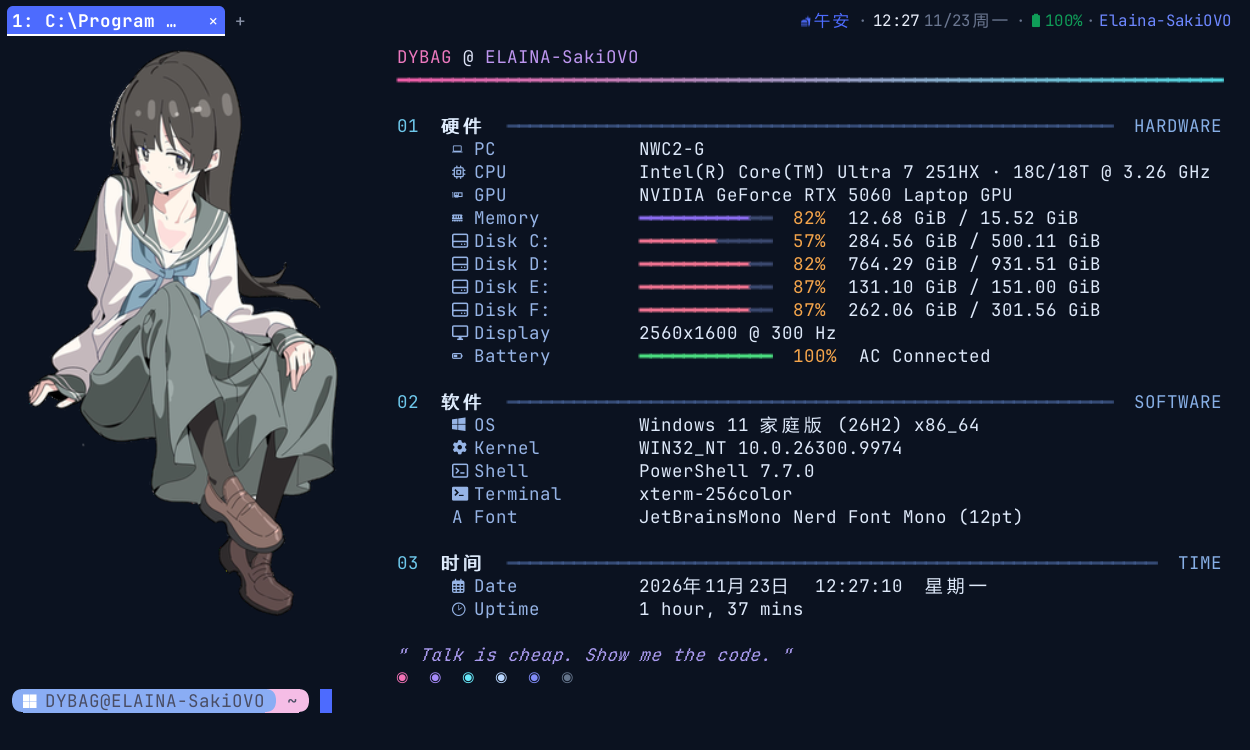
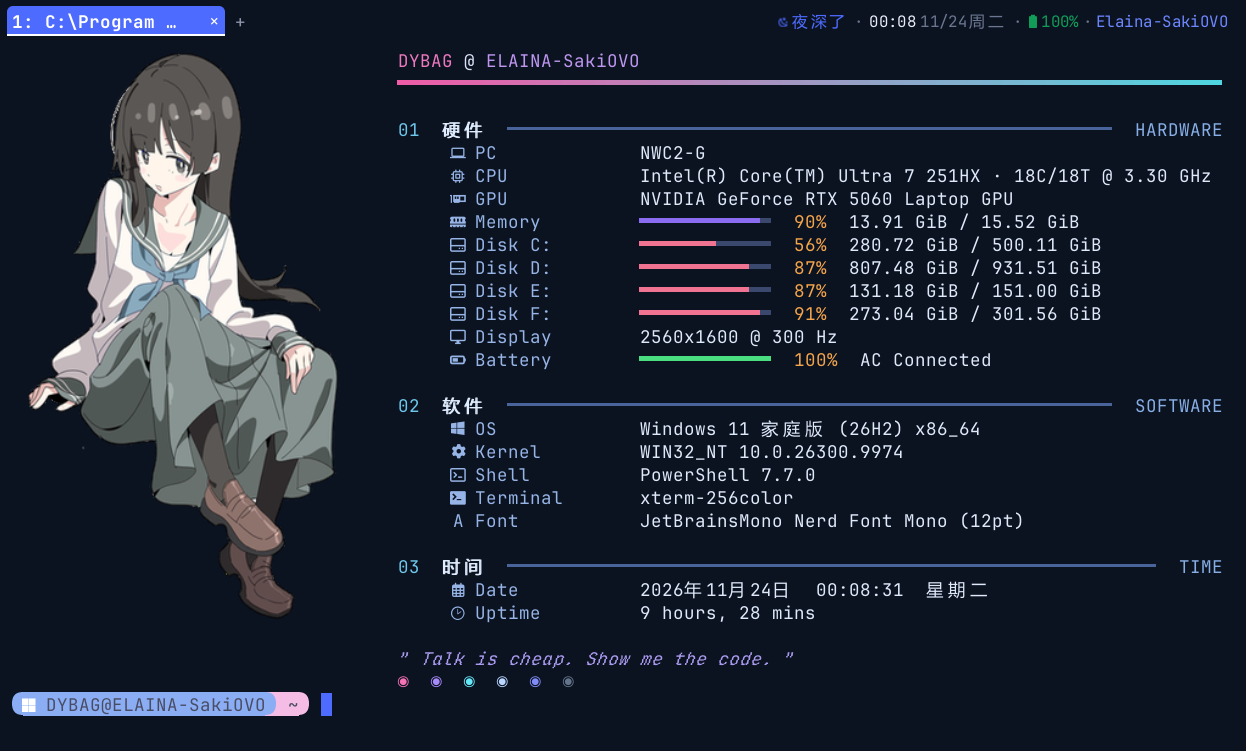
docs(readme): 按 1.2.1 重新拍摄两张配图
- assets/screenshot.png:deepseek-glass-minimal 第一屏实拍,1246×761 —— 与 1.2.1 的
  客户区吸附一致(111 列 × 32 行 + 上下各 12.5px),顶部不再多吃一截,fastfetch 图标
  与分隔线都是修好之后的样子
- assets/screenshot-deepseek.png:deepseek 主题(标签栏 + 状态栏),帧缓冲导出
- readme_shot.py:抓屏前先把窗口置顶并抢前台。原先只调 SetForegroundWindow,后台进程
  拿不到前台许可,ImageGrab 抓到的是**压在它上面的别的程序**(这次实测抓到了一整个
  无关应用的窗口)。现在 SetWindowPos(HWND_TOPMOST) + AttachThreadInput 双管齐下,
  并校验 GetForegroundWindow,失败会重试并在 stderr 报警
- README:配图说明里的窗口尺寸改成吸附后的真实值
- docs/build.md:补上两种取帧方式与这两个坑(抢前台、必须用 GetClientRect)

diff --git a/tools/diagnostics/readme_shot.py b/tools/diagnostics/readme_shot.py
@@ -97,6 +97,41 @@ def grab_window(pid, timeout=20.0):
     return 0
 
 
+def bring_to_front(hwnd) -> bool:
+    """把窗口顶到所有窗口之上,返回是否成功拿到前台。
+
+    只调 `SetForegroundWindow` 是不够的:Windows 只允许"当前前台进程"抢前台,
+    而从脚本里拉起来的程序通常拿不到这个许可,`ImageGrab` 抓到的就是**压在它上面
+    的别的窗口**(实测抓到过完全无关的一个程序)。这里两手一起上:
+
+    * `SetWindowPos(HWND_TOPMOST)` —— 置顶不依赖前台权限,至少保证没东西挡住;
+    * `AttachThreadInput` 把自己的输入队列挂到当前前台线程上,再
+      `SetForegroundWindow`,绕开前台锁。
+    """
+    user32 = ctypes.windll.user32
+    kernel32 = ctypes.windll.kernel32
+    SW_RESTORE = 9
+    HWND_TOPMOST = -1
+    SWP_NOSIZE, SWP_NOMOVE, SWP_SHOWWINDOW = 0x0001, 0x0002, 0x0040
+
+    user32.ShowWindow(hwnd, SW_RESTORE)
+    user32.SetWindowPos(hwnd, HWND_TOPMOST, 0, 0, 0, 0,
+                        SWP_NOSIZE | SWP_NOMOVE | SWP_SHOWWINDOW)
+
+    fg = user32.GetForegroundWindow()
+    tid_fg = user32.GetWindowThreadProcessId(fg, None)
+    tid_self = kernel32.GetCurrentThreadId()
+    attached = bool(user32.AttachThreadInput(tid_fg, tid_self, True))
+    try:
+        user32.BringWindowToTop(hwnd)
+        user32.SetForegroundWindow(hwnd)
+    finally:
+        if attached:
+            user32.AttachThreadInput(tid_fg, tid_self, False)
+    time.sleep(0.5)
+    return user32.GetForegroundWindow() == hwnd
+
+
 def capture_screen(hwnd, out: pathlib.Path, wait_ms: int):
     """抓窗口矩形(含 DWM 合成后的毛玻璃)。
 
@@ -109,7 +144,15 @@ def capture_screen(hwnd, out: pathlib.Path, wait_ms: int):
     except Exception:
         ctypes.windll.user32.SetProcessDPIAware()
     user32 = ctypes.windll.user32
-    user32.SetForegroundWindow(hwnd)
+
+    for attempt in range(3):
+        if bring_to_front(hwnd):
+            break
+        print(f"没抢到前台,重试({attempt + 1}/3)", file=sys.stderr)
+    else:
+        # 拿不到前台也继续:置顶至少保证窗口没被别的程序盖住
+        print("警告:始终没拿到前台,截到的可能是窗口以外的内容", file=sys.stderr)
+
     time.sleep(wait_ms / 1000.0)
 
     client = wt.RECT()

diff --git a/docs/build.md b/docs/build.md
@@ -583,12 +583,20 @@ Set-PSReadLineOption -HistorySavePath "$env:TEMP\ps_history.txt"
 本节提到的所有探针 / 审计脚本都放在 **`tools/diagnostics/`**(随仓库提交,不随发行版分发)。
 以前它们散落在 `target/` 里,`cargo clean` 一跑就没了;现在统一从项目根目录执行
 `python tools/diagnostics/<脚本>.py`,输出截图 / 日志仍然写到 `target/`。
-`readme_shot.py` 是 README 头图的导帧脚本:用 `config/deepseek.lua` 主题 + 用户
-真实的 PowerShell 7 profile 启动,导出「打开后的第一屏」(fastfetch 立绘与系统信息
-+ oh-my-posh 提示符 + 主题状态栏),**不跑演示脚本、不模拟按键**。
-`python tools/diagnostics/readme_shot.py` 会覆盖 `assets/screenshot.png`;临时
-配置只写 `theme = "deepseek"`,窗口尺寸、shell、字体、状态栏全部继承主题
-(1250×750),不覆盖任何布局项。仅排查时可用 `README_SHOT_SIZE` 临时改尺寸。
+`readme_shot.py` 是 README 两张配图的导帧脚本:默认拍头图 `assets/screenshot.png`
+(主题 `deepseek-glass-minimal`,毛玻璃走屏幕抓图),加
+`--theme deepseek --out assets/screenshot-deepseek.png` 拍带标签栏 / 状态栏的那张
+(非玻璃主题走帧缓冲导出,不碰桌面、可复现)。两者都用用户真实的 PowerShell 7 profile
+启动,导出「打开后的第一屏」(fastfetch 立绘与系统信息 + oh-my-posh 提示符),**不跑演示
+脚本、不模拟按键**;临时配置只写 `theme = "<名字>"`,窗口尺寸、shell、字体、布局全部继承
+主题(1250×750),不覆盖任何布局项。
+
+> 屏幕抓图有两个坑:一是 `SetForegroundWindow` 对后台进程常被系统拒绝,抓到的会是**压在
+> 它上面的别的程序**(实测抓到过无关应用窗口)—— 现在先 `SetWindowPos(HWND_TOPMOST)`
+> 置顶、再用 `AttachThreadInput` 抢前台,并校验 `GetForegroundWindow`;二是必须用
+> `GetClientRect` + `ClientToScreen` 而不是 `GetWindowRect`,后者把阴影和不可见缩放边框
+> 算进去,裁出来的内容就不居中了。
+
 `cursor_probe.py` 是光标本体的实机回归:把 `colors.cursor_bg` 改成品红,依次
 启动默认 / 竖条 / 半格 / 闪烁三种灭相 / 脉冲七组配置,按像素统计光标块的
 数量与包围盒,输出 `target/_cursor_shot/grid.png`。判据见下表(字号 16 时

diff --git a/README.md b/README.md
@@ -32,8 +32,8 @@ wezterm 的终端核心 · 自研轻量渲染层 · Kitty 风格光标尾迹 · 
 > 渲染的**真实窗口帧**:真毛玻璃、没有标签栏、没有标题栏,整个窗口就是终端。
 > 内容是**打开 VectorTerm 后的第一屏** —— 你自己的 PowerShell 7 profile 跑起来的
 > fastfetch(立绘 logo + 硬件 / 软件 / 时间信息)与 oh-my-posh 提示符。
-> 没有演示脚本、没有模拟按键,也不是画出来的效果图;窗口尺寸完全沿用主题
-> 设定的 1250×750。
+> 没有演示脚本、没有模拟按键,也不是画出来的效果图;主题配的是 1250×750,窗口会吸附到
+> 「整数行列 + 四周留白」,实际客户区 1246×761(111 列 × 32 行,上下各 12.5px)。
 > 重新生成只需 `python tools/diagnostics/readme_shot.py`(先 `build.cmd --release`);
 > 想拍带标签栏和状态栏的完整界面就加 `--theme deepseek --out assets/screenshot-deepseek.png`。
 
